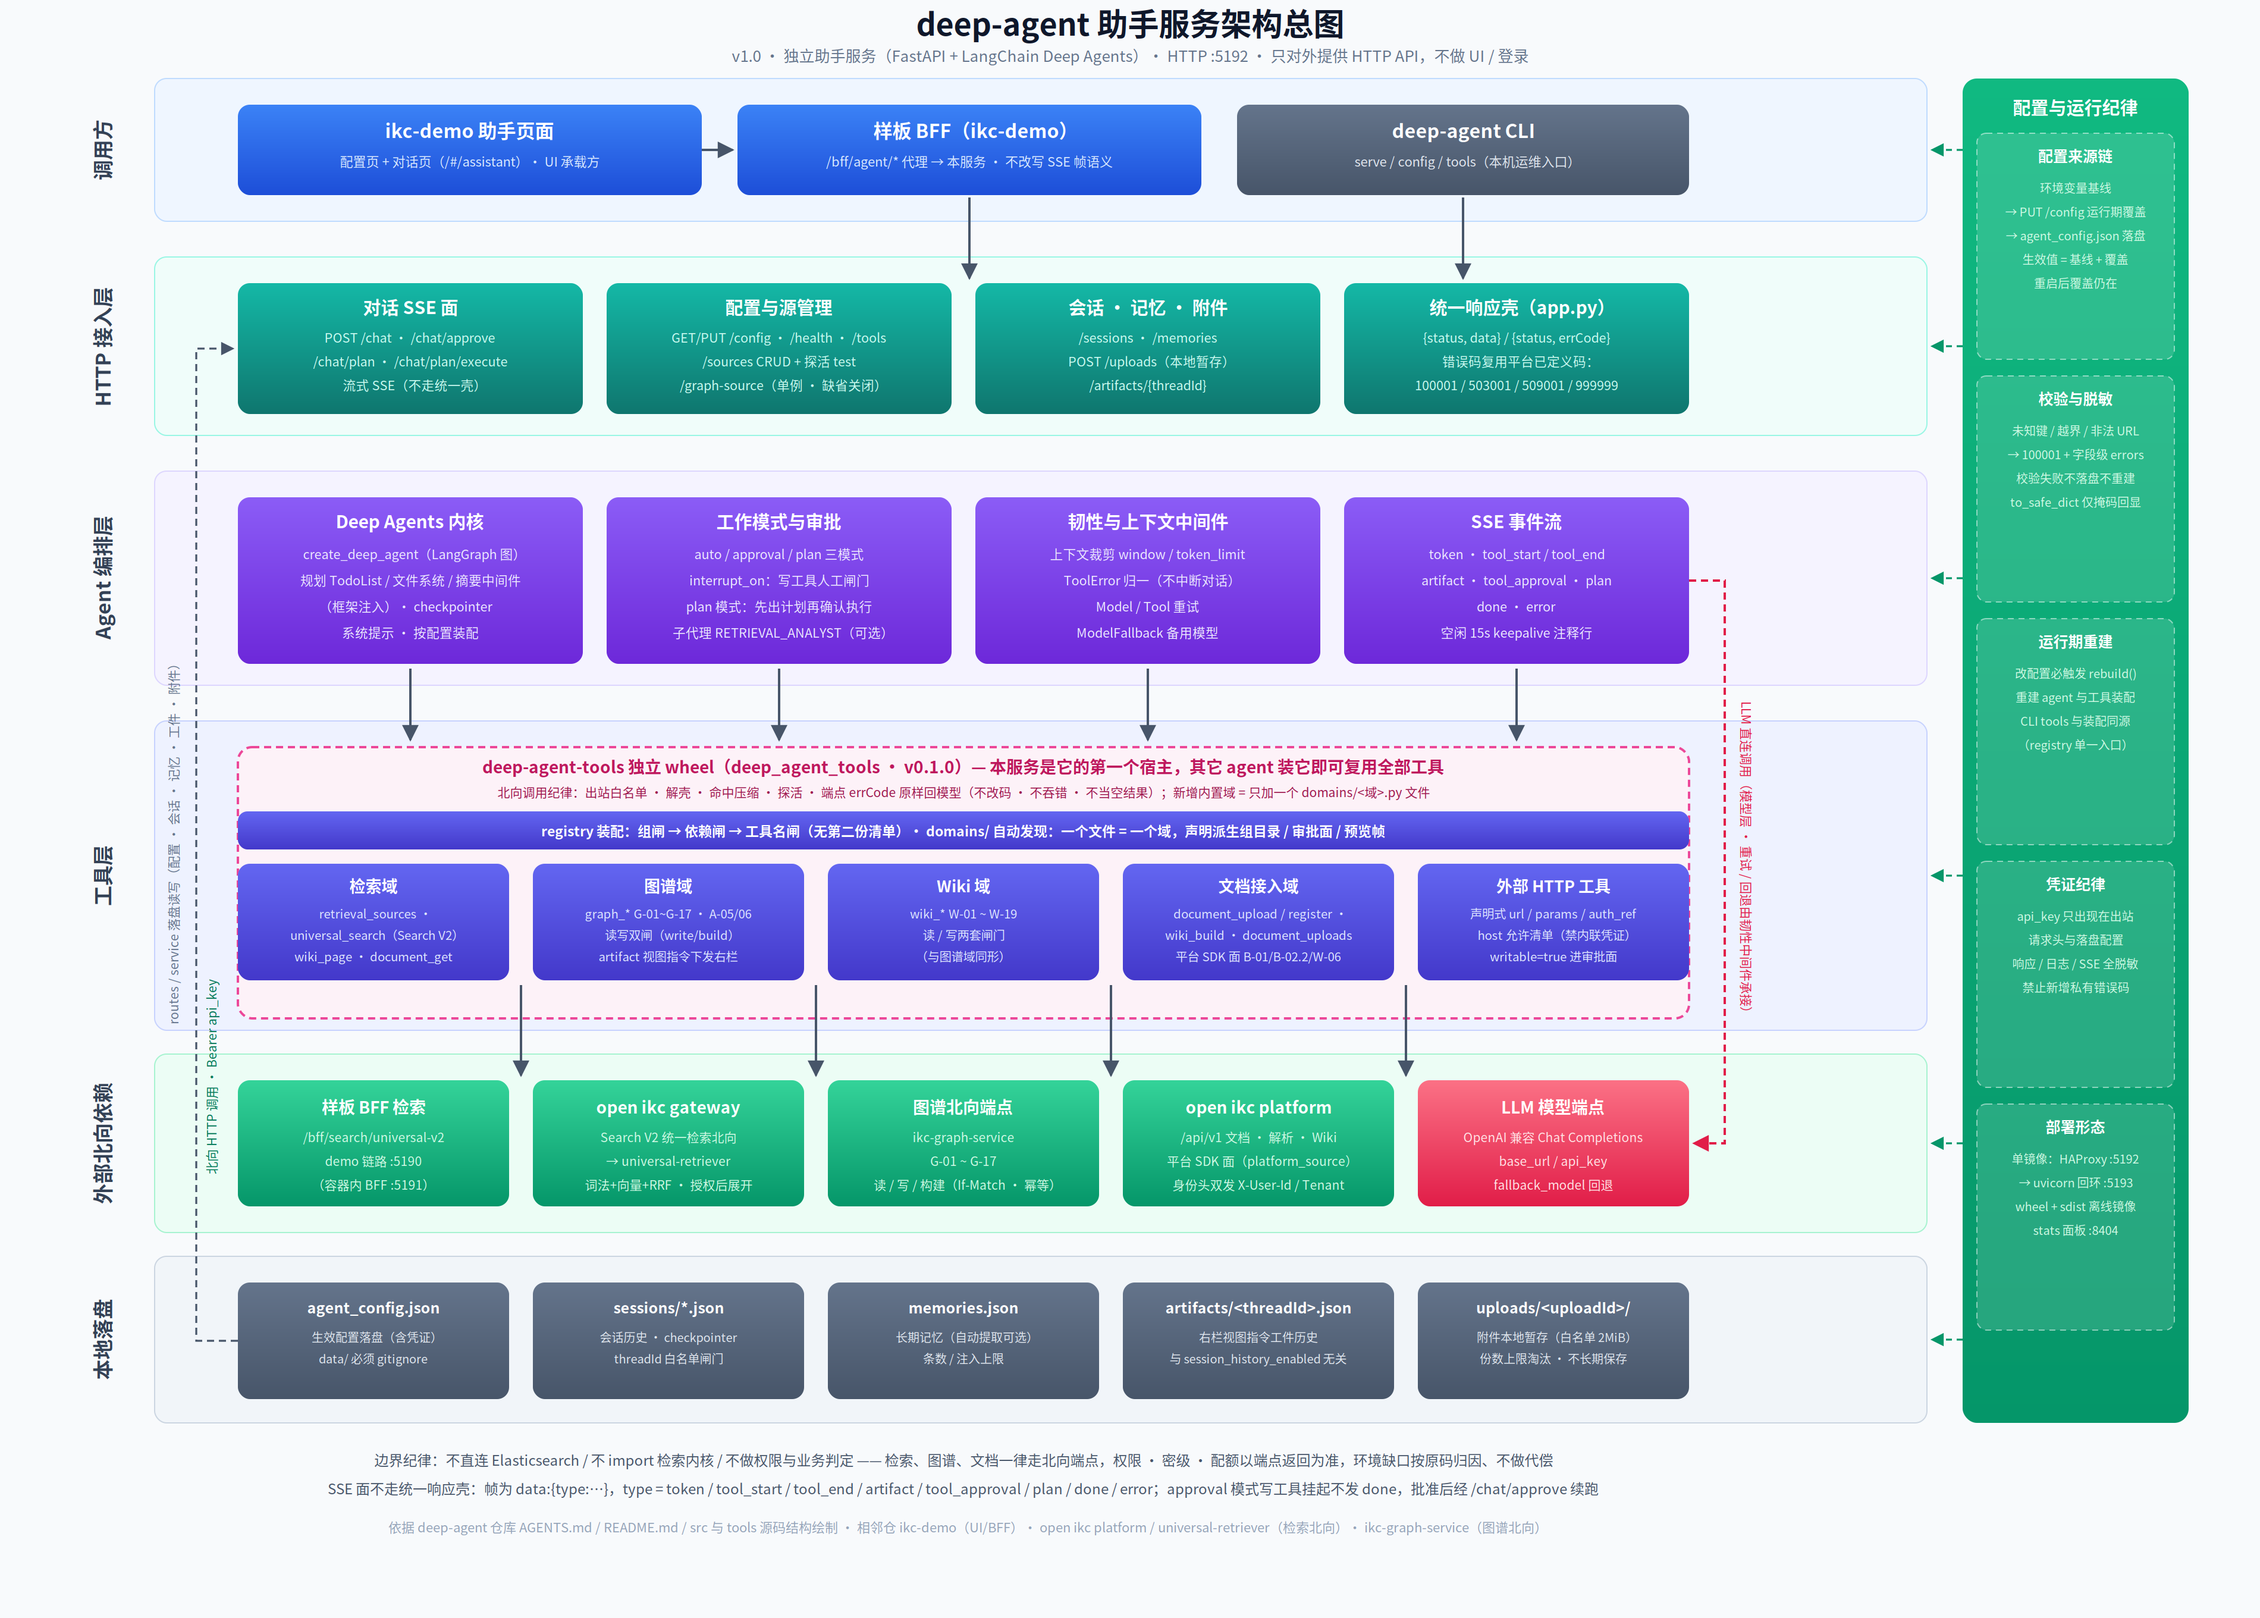
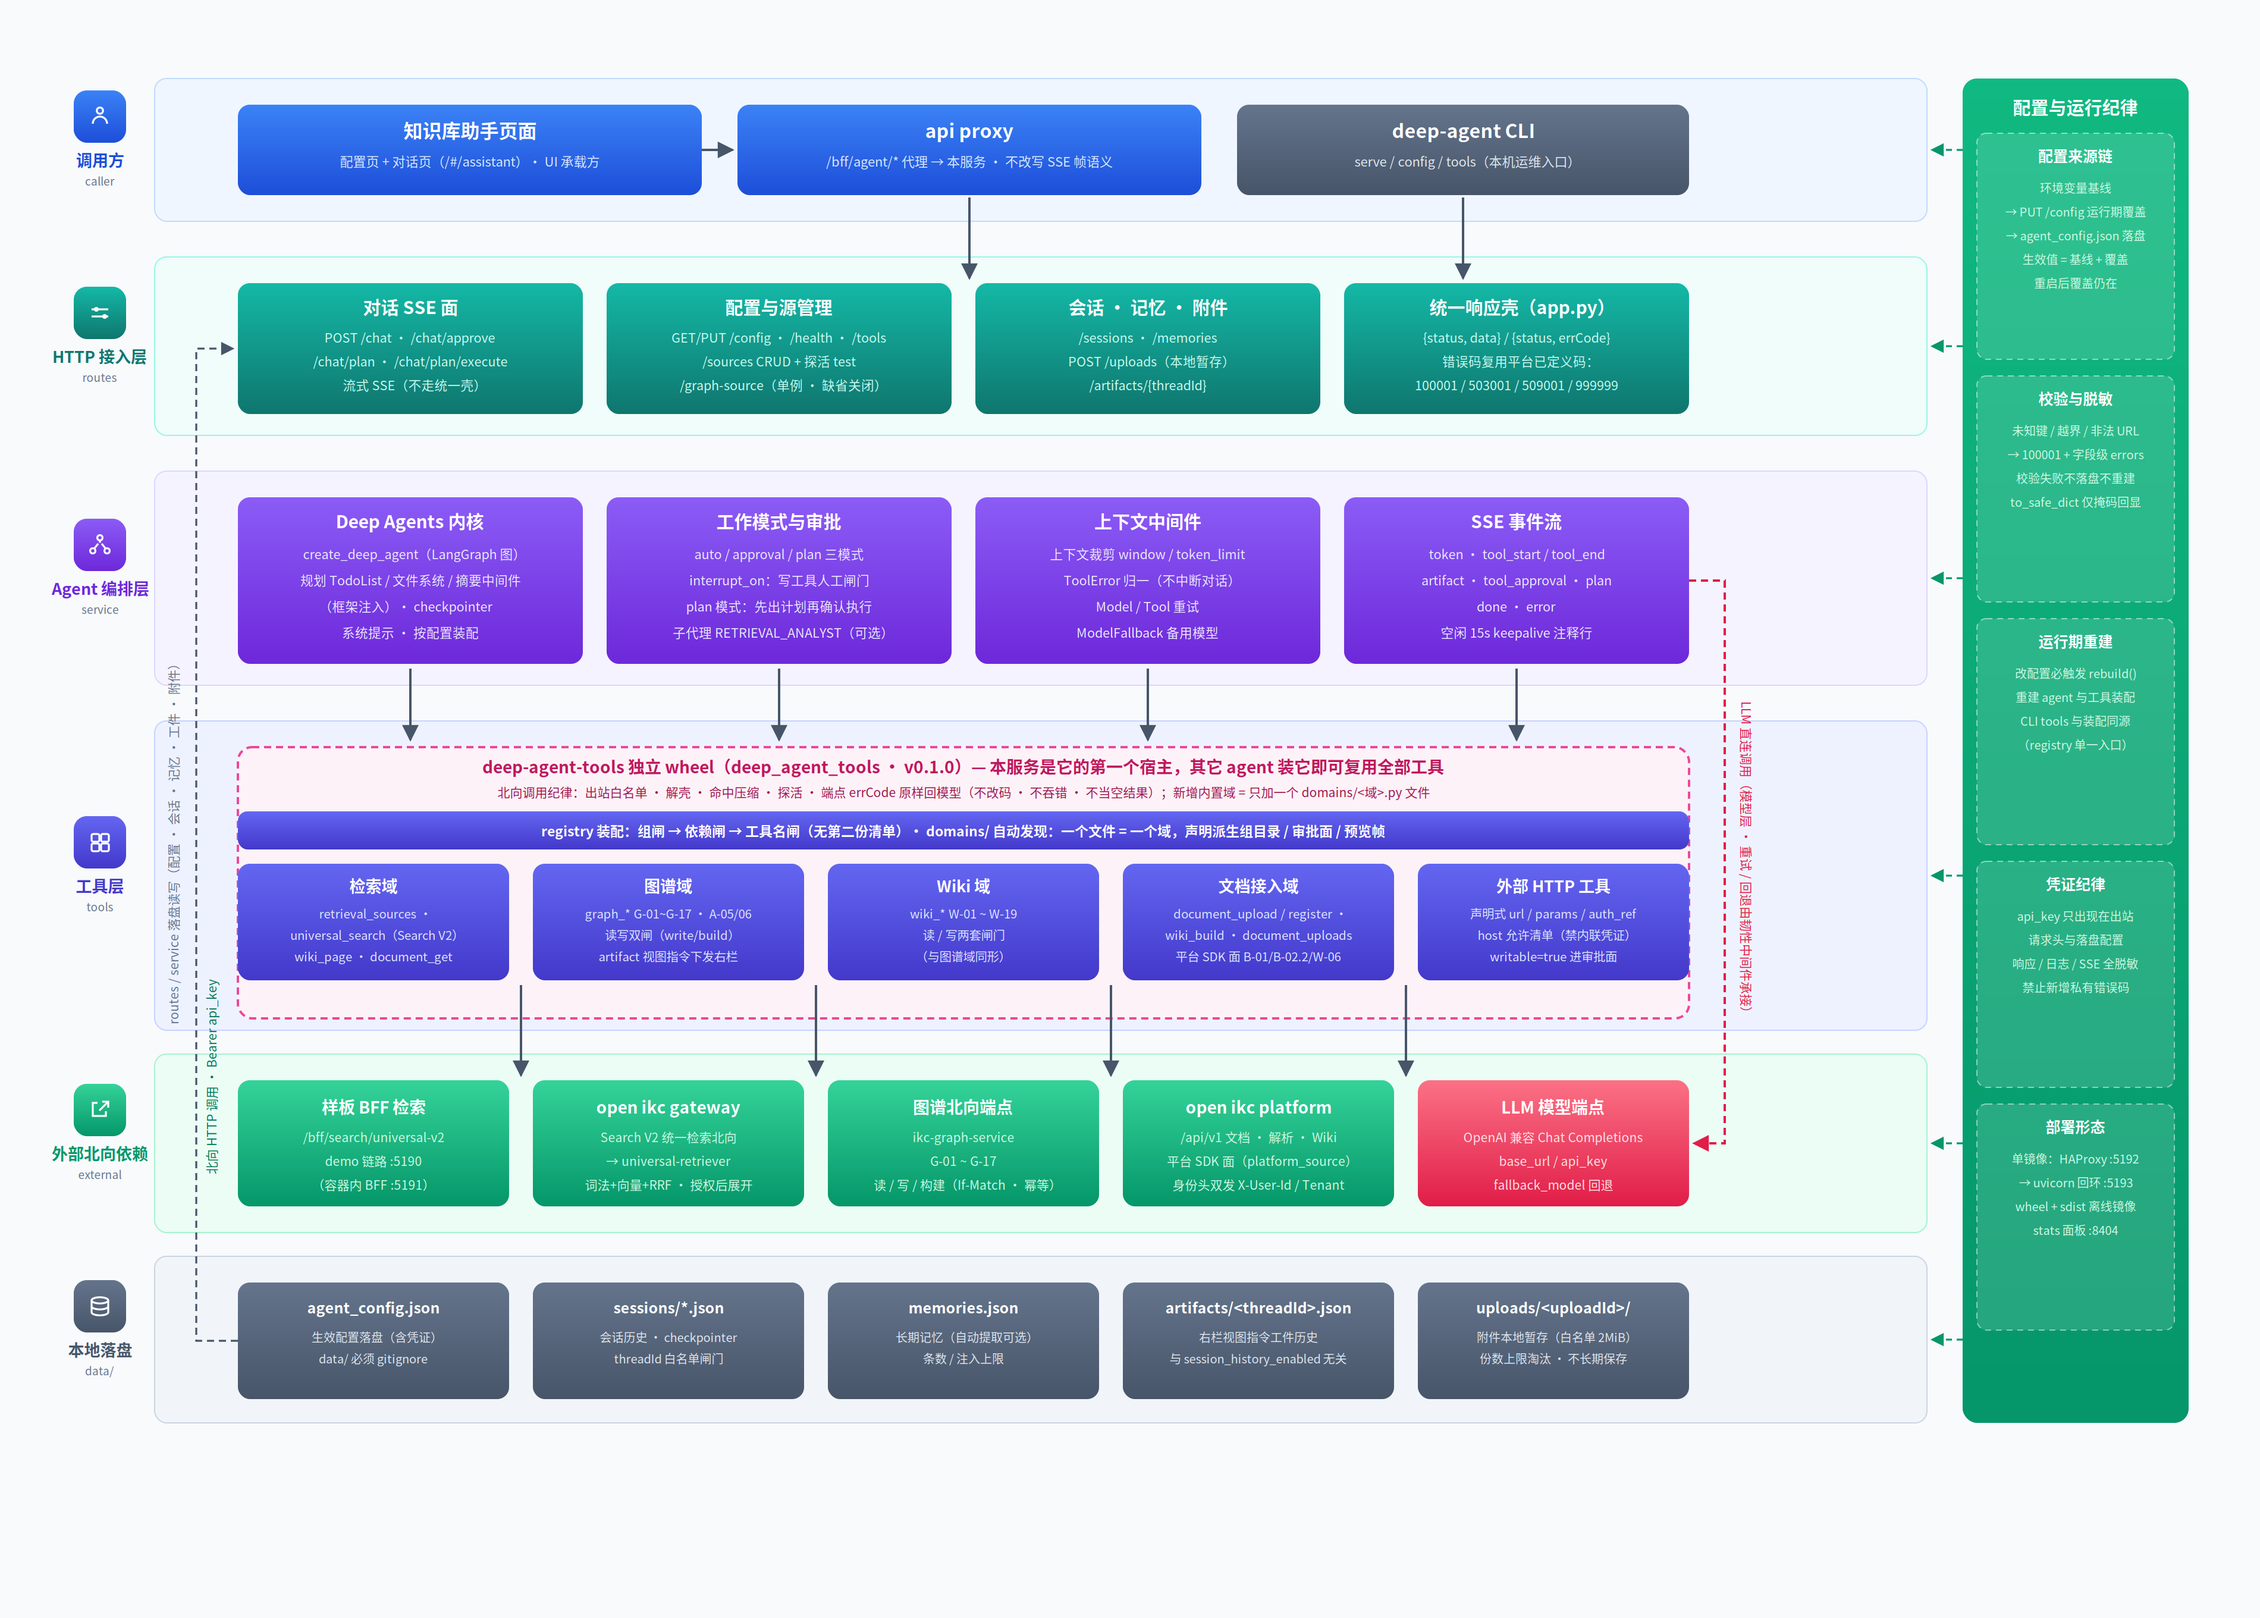
chore: deep-agent 架构图左侧竖排标签改为彩色图标徽章样式

diff --git a/docs/worklog.md b/docs/worklog.md
@@ -1519,3 +1519,8 @@
 
 - 按用户要求基于 v1.0 新建 docs/images/ikc-video-service架构总图_v1.1.svg（v1.0 保留）：左侧六层层标签由「rotate(-90) 竖排文字」改为 OpenWiki-Server 框架图同款「44×44 圆角渐变图标徽章（x=70，带内垂直居中）+ 徽章下方层名（14px bold 取各层色深阶）+ 副行（10.5px 灰，HTTP·HAProxy / Celery·Redis / video.process / integrations）」；图标为手绘白描矢量：调用方层人形（gBlue）、接入层地球（gTeal）、调度层时钟（gIndigo）、任务主流程四节点链路（gViolet）、集成层芯片（gCyan）、外部依赖层数据库柱（gSlate），复用图内既有渐变，未新增 defs；font-family 首位改 Noto Sans CJK SC 免临时副本。
 - 验证：XML 校验 OK；cairosvg 2x 渲染同名 PNG，目检六徽章图标全部正常、无豆腐块、文字未侵入层带（层带左缘 x=160）、布局与连线无位移。仅配图改动，无代码改动，跳过 pytest 与 Claude 只读审查。
+
+### 任务：deep-agent 架构总图左侧竖排标签改图标徽章（2026-10-19）
+
+- 按用户「对齐图标徽章样式」选择，就地改 docs/images/deep-agent架构总图_v1.0.svg 左侧六层标签：由 rotate(-90) 竖排文字改为「44×44 彩色圆角图标徽章 + 下方横向层名（粗体同色）+ 灰色英文副标签」，对齐 Semantica / 分层技术栈 v1.2 左侧风格。六枚扁平白描图标按层语义设计：调用方=人形、HTTP 接入层=滑块路由、Agent 编排层=图谱节点、工具层=2×2 域网格、外部北向依赖=外链箭头、本地落盘=数据库圆柱；徽章取各层带主题渐变 gBlue/gTeal/gViolet/gIndigo/gEmerald/gSlate，层名文字同色深阶，统一居中 x=84（避开层带左边缘 x=130）。
+- 验证：XML 校验 OK；临时副本注入 Noto Sans CJK SC 后 cairosvg 2x 渲染覆盖 v1.0.png（3800×2720），左侧裁切目检六徽章图标清晰、无豆腐块、横向标签不与层带重叠。仅配图改动，跳过 pytest 与 Claude 只读审查。
